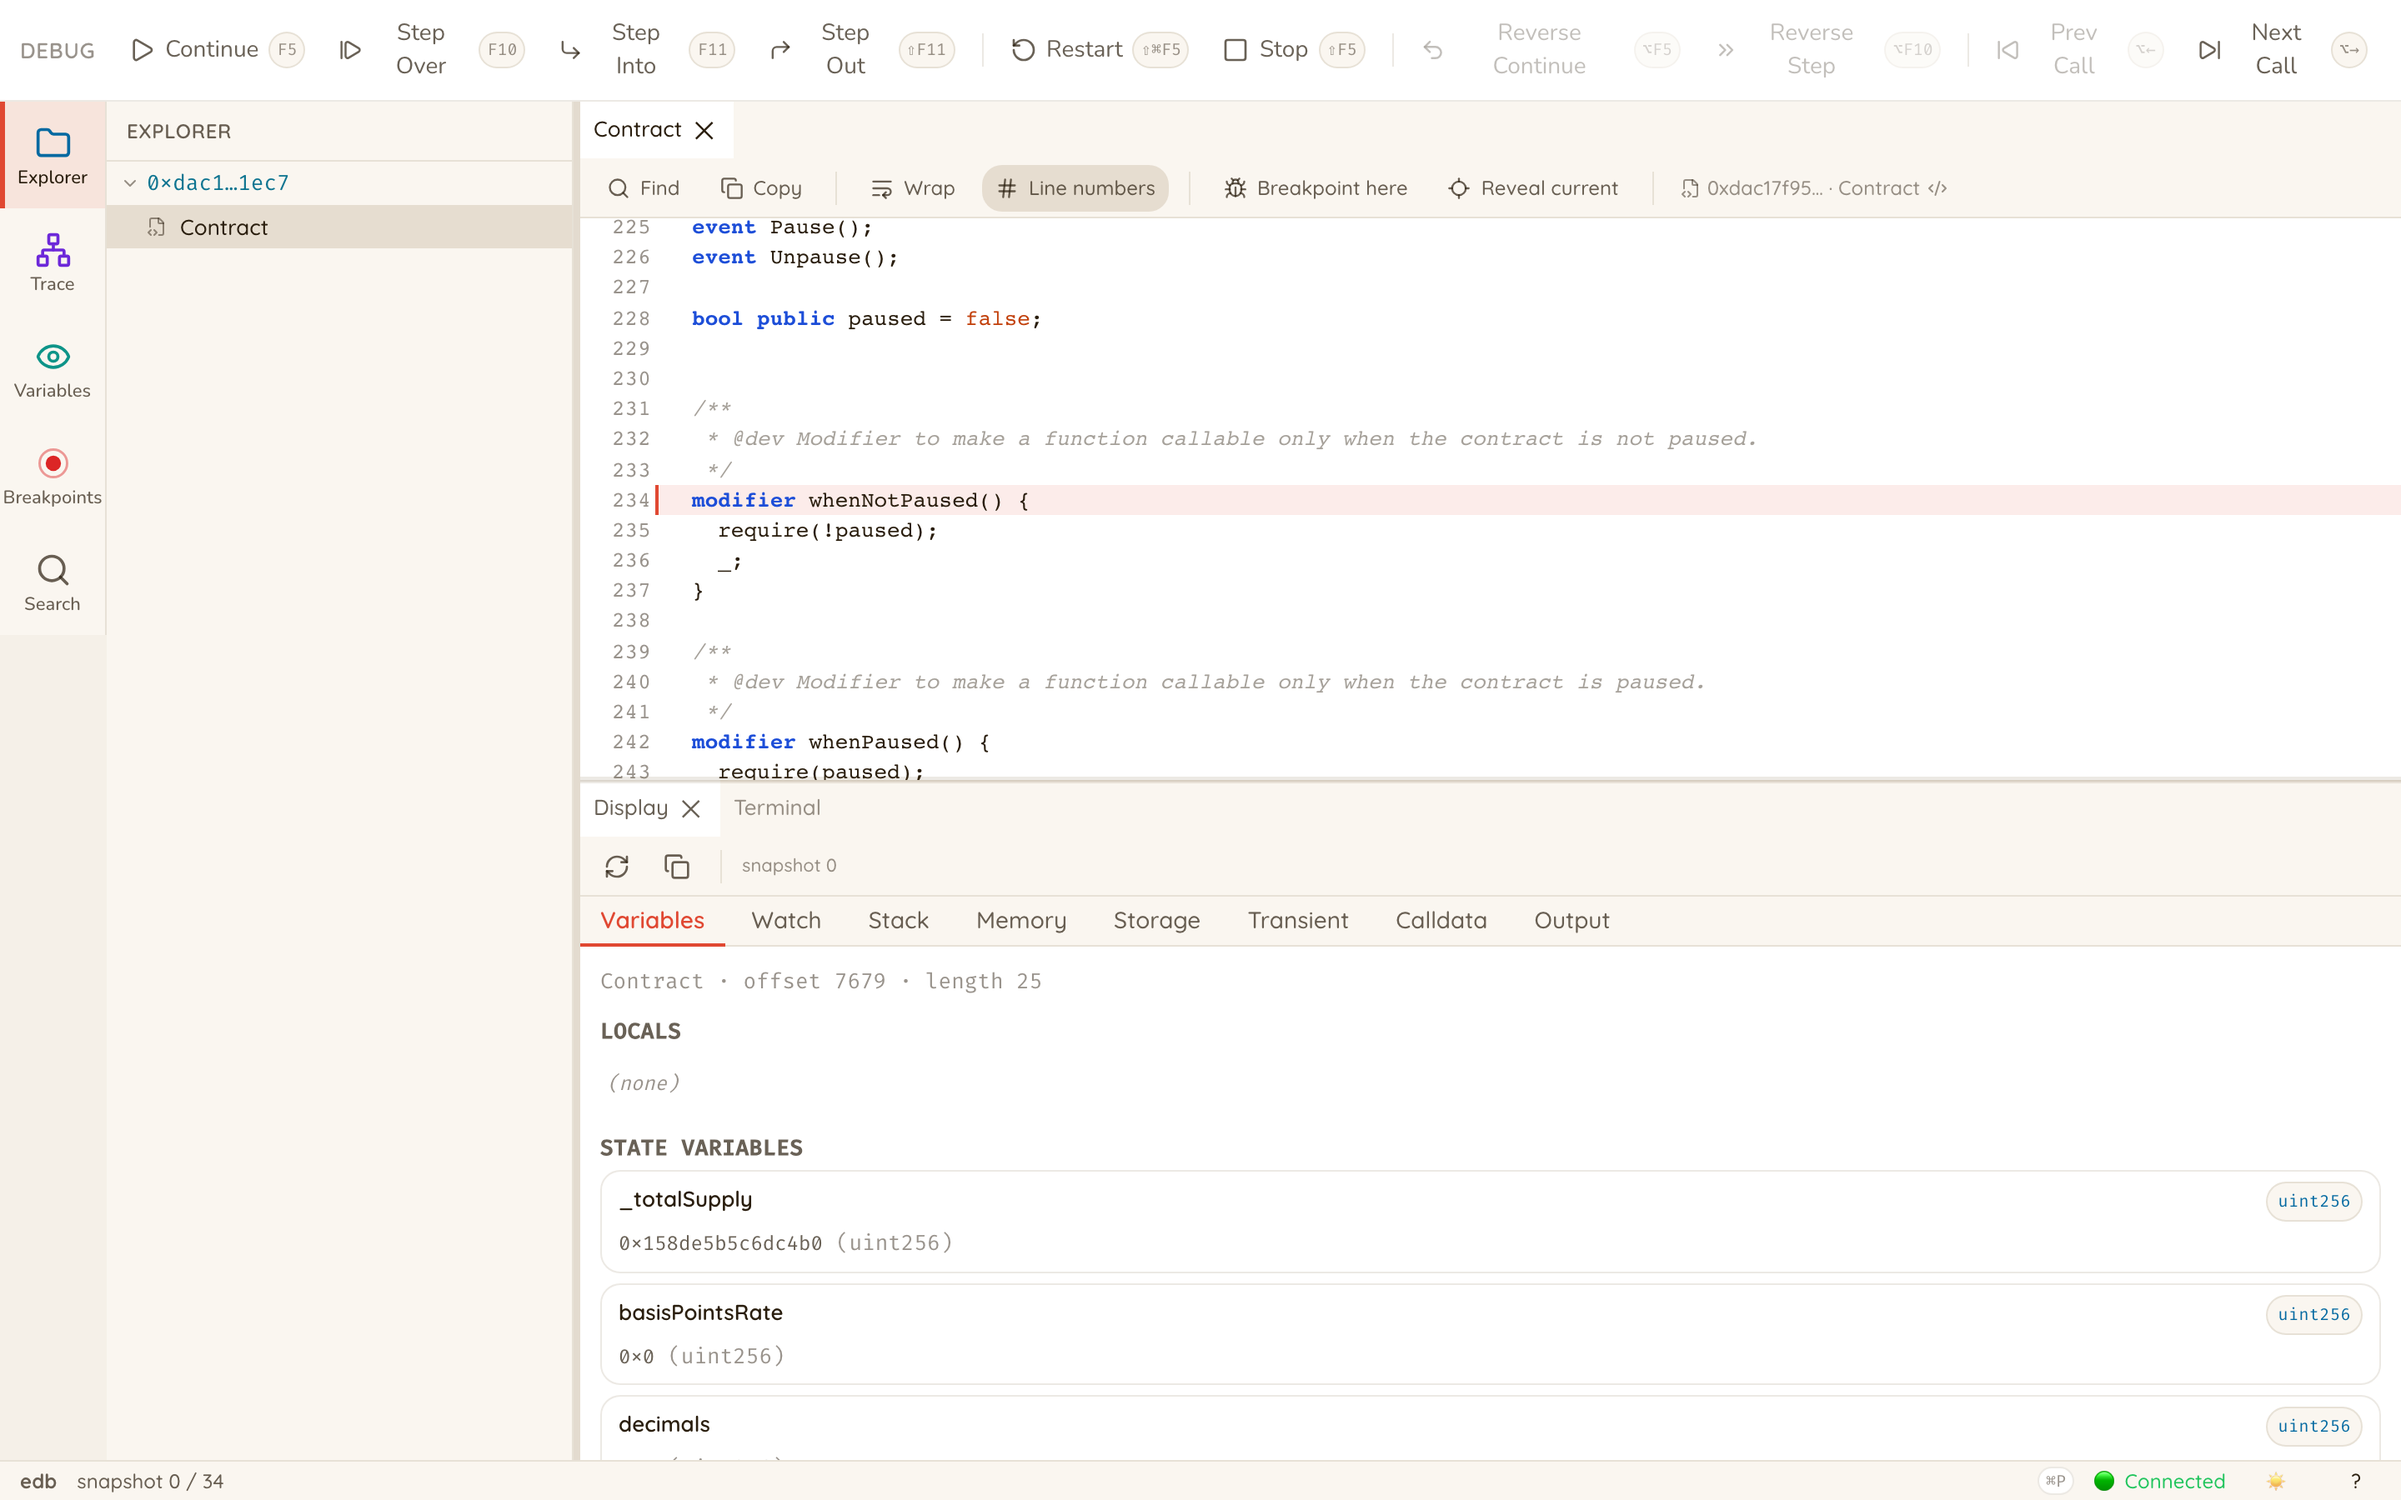
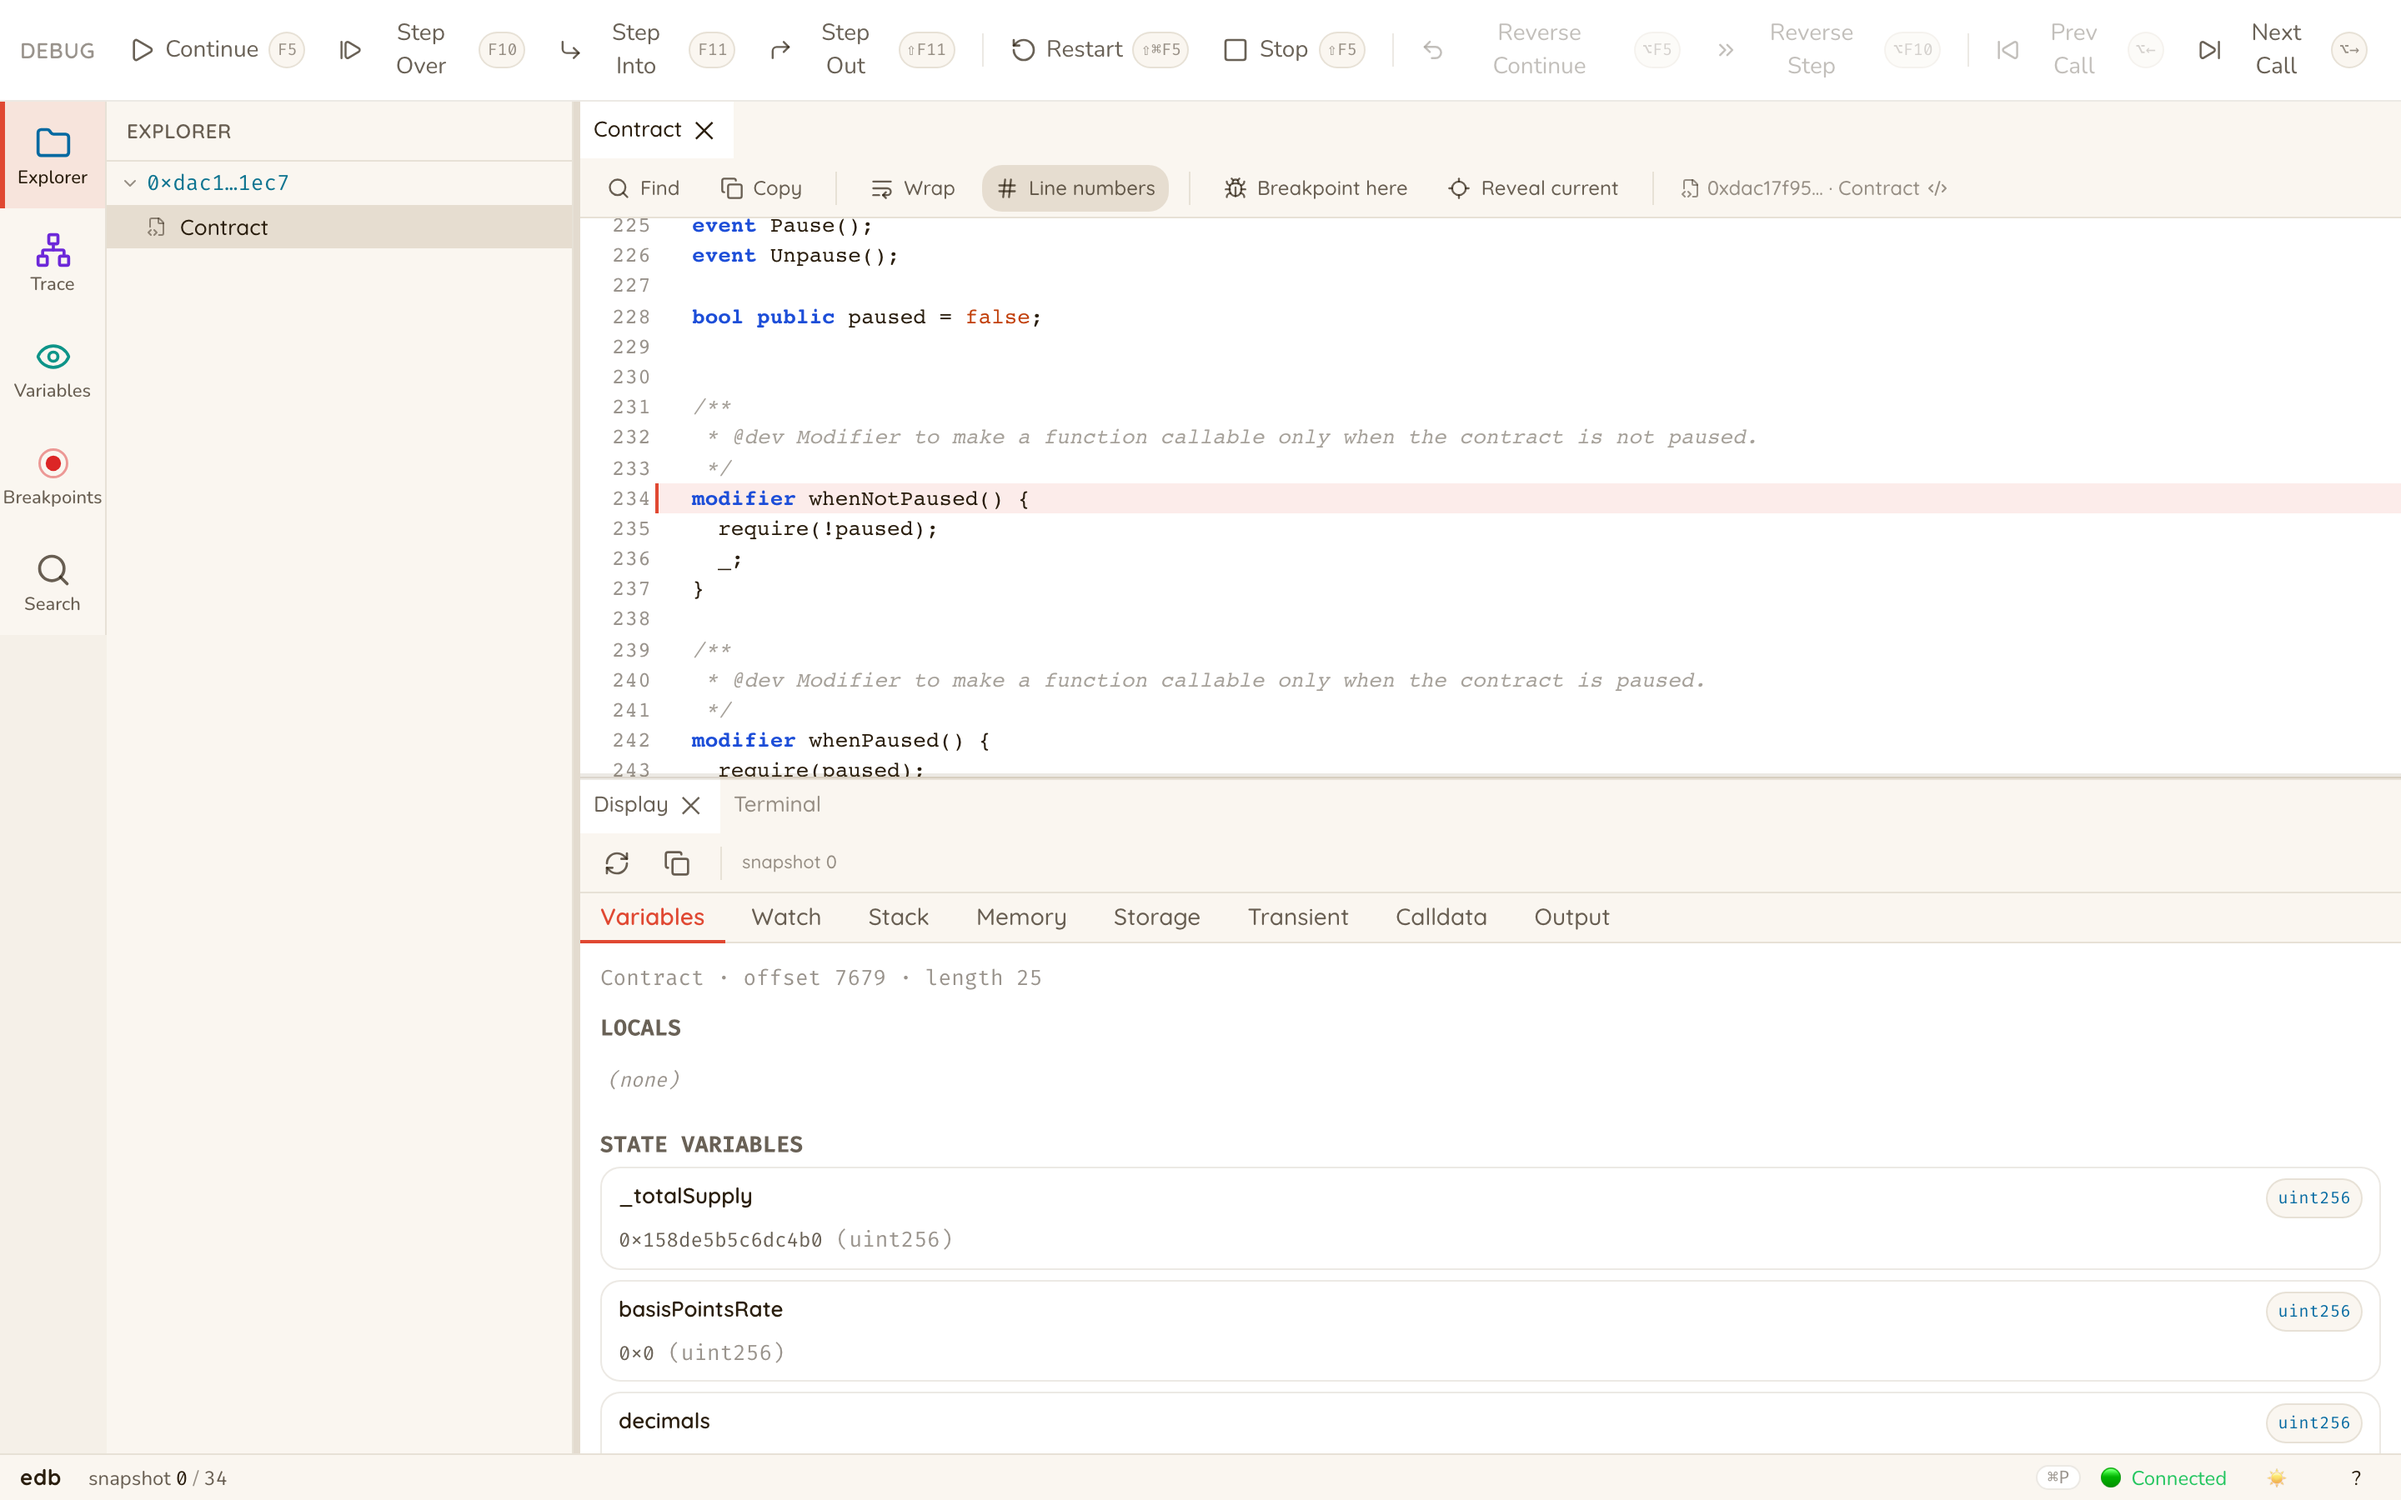
fix(web/ui): defensive panel anchoring + cleaner status-bar typography
- Crash repro: close both Display and Terminal tabs (so the
  dockview is empty), then click a file in the Explorer. The
  reconcile useEffect anchored a new file panel to
  'referencePanel: display', which dockview rejects with
  'referencePanel does not exist' and tears down the React tree.
  Fix: prefer any existing file tab, then any existing fixed
  panel ('display' OR 'terminal'), then fall through to no
  position so dockview makes a fresh group.
- Status bar typography: 'edb' wordmark gets the display font
  (Quicksand) and a touch more weight; the 'snapshot N / M'
  counter uses font-mono for the numerals so they align as the
  numbers grow. Body text switches to Nunito (font-body) at 12px,
  height bumped 24->28px so the row breathes.

diff --git a/crates/web/frontend/src/layout/StatusBar.tsx b/crates/web/frontend/src/layout/StatusBar.tsx
@@ -94,13 +94,21 @@ export function StatusBar() {
 
   return (
     <footer
-      className="flex h-6 items-center justify-between border-t border-(--color-border) bg-(--color-bg) px-3 font-display text-[12px]"
+      className="flex h-7 items-center justify-between border-t border-(--color-border) bg-(--color-bg) px-3 font-body text-[12px]"
       data-testid="status-bar"
     >
-      <div className="flex items-center gap-3">
-        <span className="font-bold text-(--color-fg-secondary)">edb</span>
+      <div className="flex items-center gap-4">
+        <span
+          className="font-display text-[13px] font-bold tracking-wide text-(--color-fg)"
+          aria-label="Ethereum Debugger"
+        >
+          edb
+        </span>
         <span className="text-(--color-fg-secondary)" data-testid="snapshot-label">
-          snapshot {id} / {count ?? '…'}
+          snapshot{' '}
+          <span className="font-mono text-(--color-fg)">{id}</span>{' '}
+          <span className="text-(--color-fg-tertiary)">/</span>{' '}
+          <span className="font-mono text-(--color-fg-secondary)">{count ?? '…'}</span>
         </span>
       </div>
       <div className="flex items-center gap-3">
@@ -130,7 +138,7 @@ function PaletteHint() {
       aria-hidden
       className="hidden items-center gap-1 text-(--color-fg-tertiary) sm:inline-flex"
     >
-      <kbd className="rounded border border-(--color-border) bg-(--color-bg-elevated) px-1 font-mono text-[10px]">
+      <kbd className="rounded border border-(--color-border) bg-(--color-bg-elevated) px-1.5 py-px font-mono text-[11px] leading-none">
         {IS_MAC ? '⌘' : 'Ctrl'}P
       </kbd>
     </span>

diff --git a/crates/web/frontend/src/layout/MainArea.tsx b/crates/web/frontend/src/layout/MainArea.tsx
@@ -162,6 +162,12 @@ export function MainArea() {
   // already-open file tab; if no files are open, place the new tab ABOVE
   // the bottom (display/terminal) group so the IDE keeps its code-on-top
   // / panels-on-bottom shape.
+  //
+  // Care: dockview throws if `referencePanel` doesn't exist. The user may
+  // have closed `display` AND `terminal`, leaving the dockview empty —
+  // anchoring to a missing id would crash the app. Always pick an anchor
+  // that's actually present, or fall through to no `position` so dockview
+  // makes a fresh group.
   useEffect(() => {
     const api = apiRef.current;
     if (!api) return;
@@ -173,9 +179,13 @@ export function MainArea() {
     for (const f of openFiles) {
       if (api.getPanel(f.id)) continue;
       const existingFile = api.panels.find((p) => !FIXED_PANEL_IDS.has(p.id));
+      const display = api.getPanel('display');
+      const anyFixed = display ?? api.getPanel('terminal');
       const position = existingFile
         ? { referencePanel: existingFile.id, direction: 'within' as const }
-        : { referencePanel: 'display', direction: 'above' as const };
+        : anyFixed
+          ? { referencePanel: anyFixed.id, direction: 'above' as const }
+          : undefined;
       api.addPanel({
         id: f.id,
         component: 'file',
